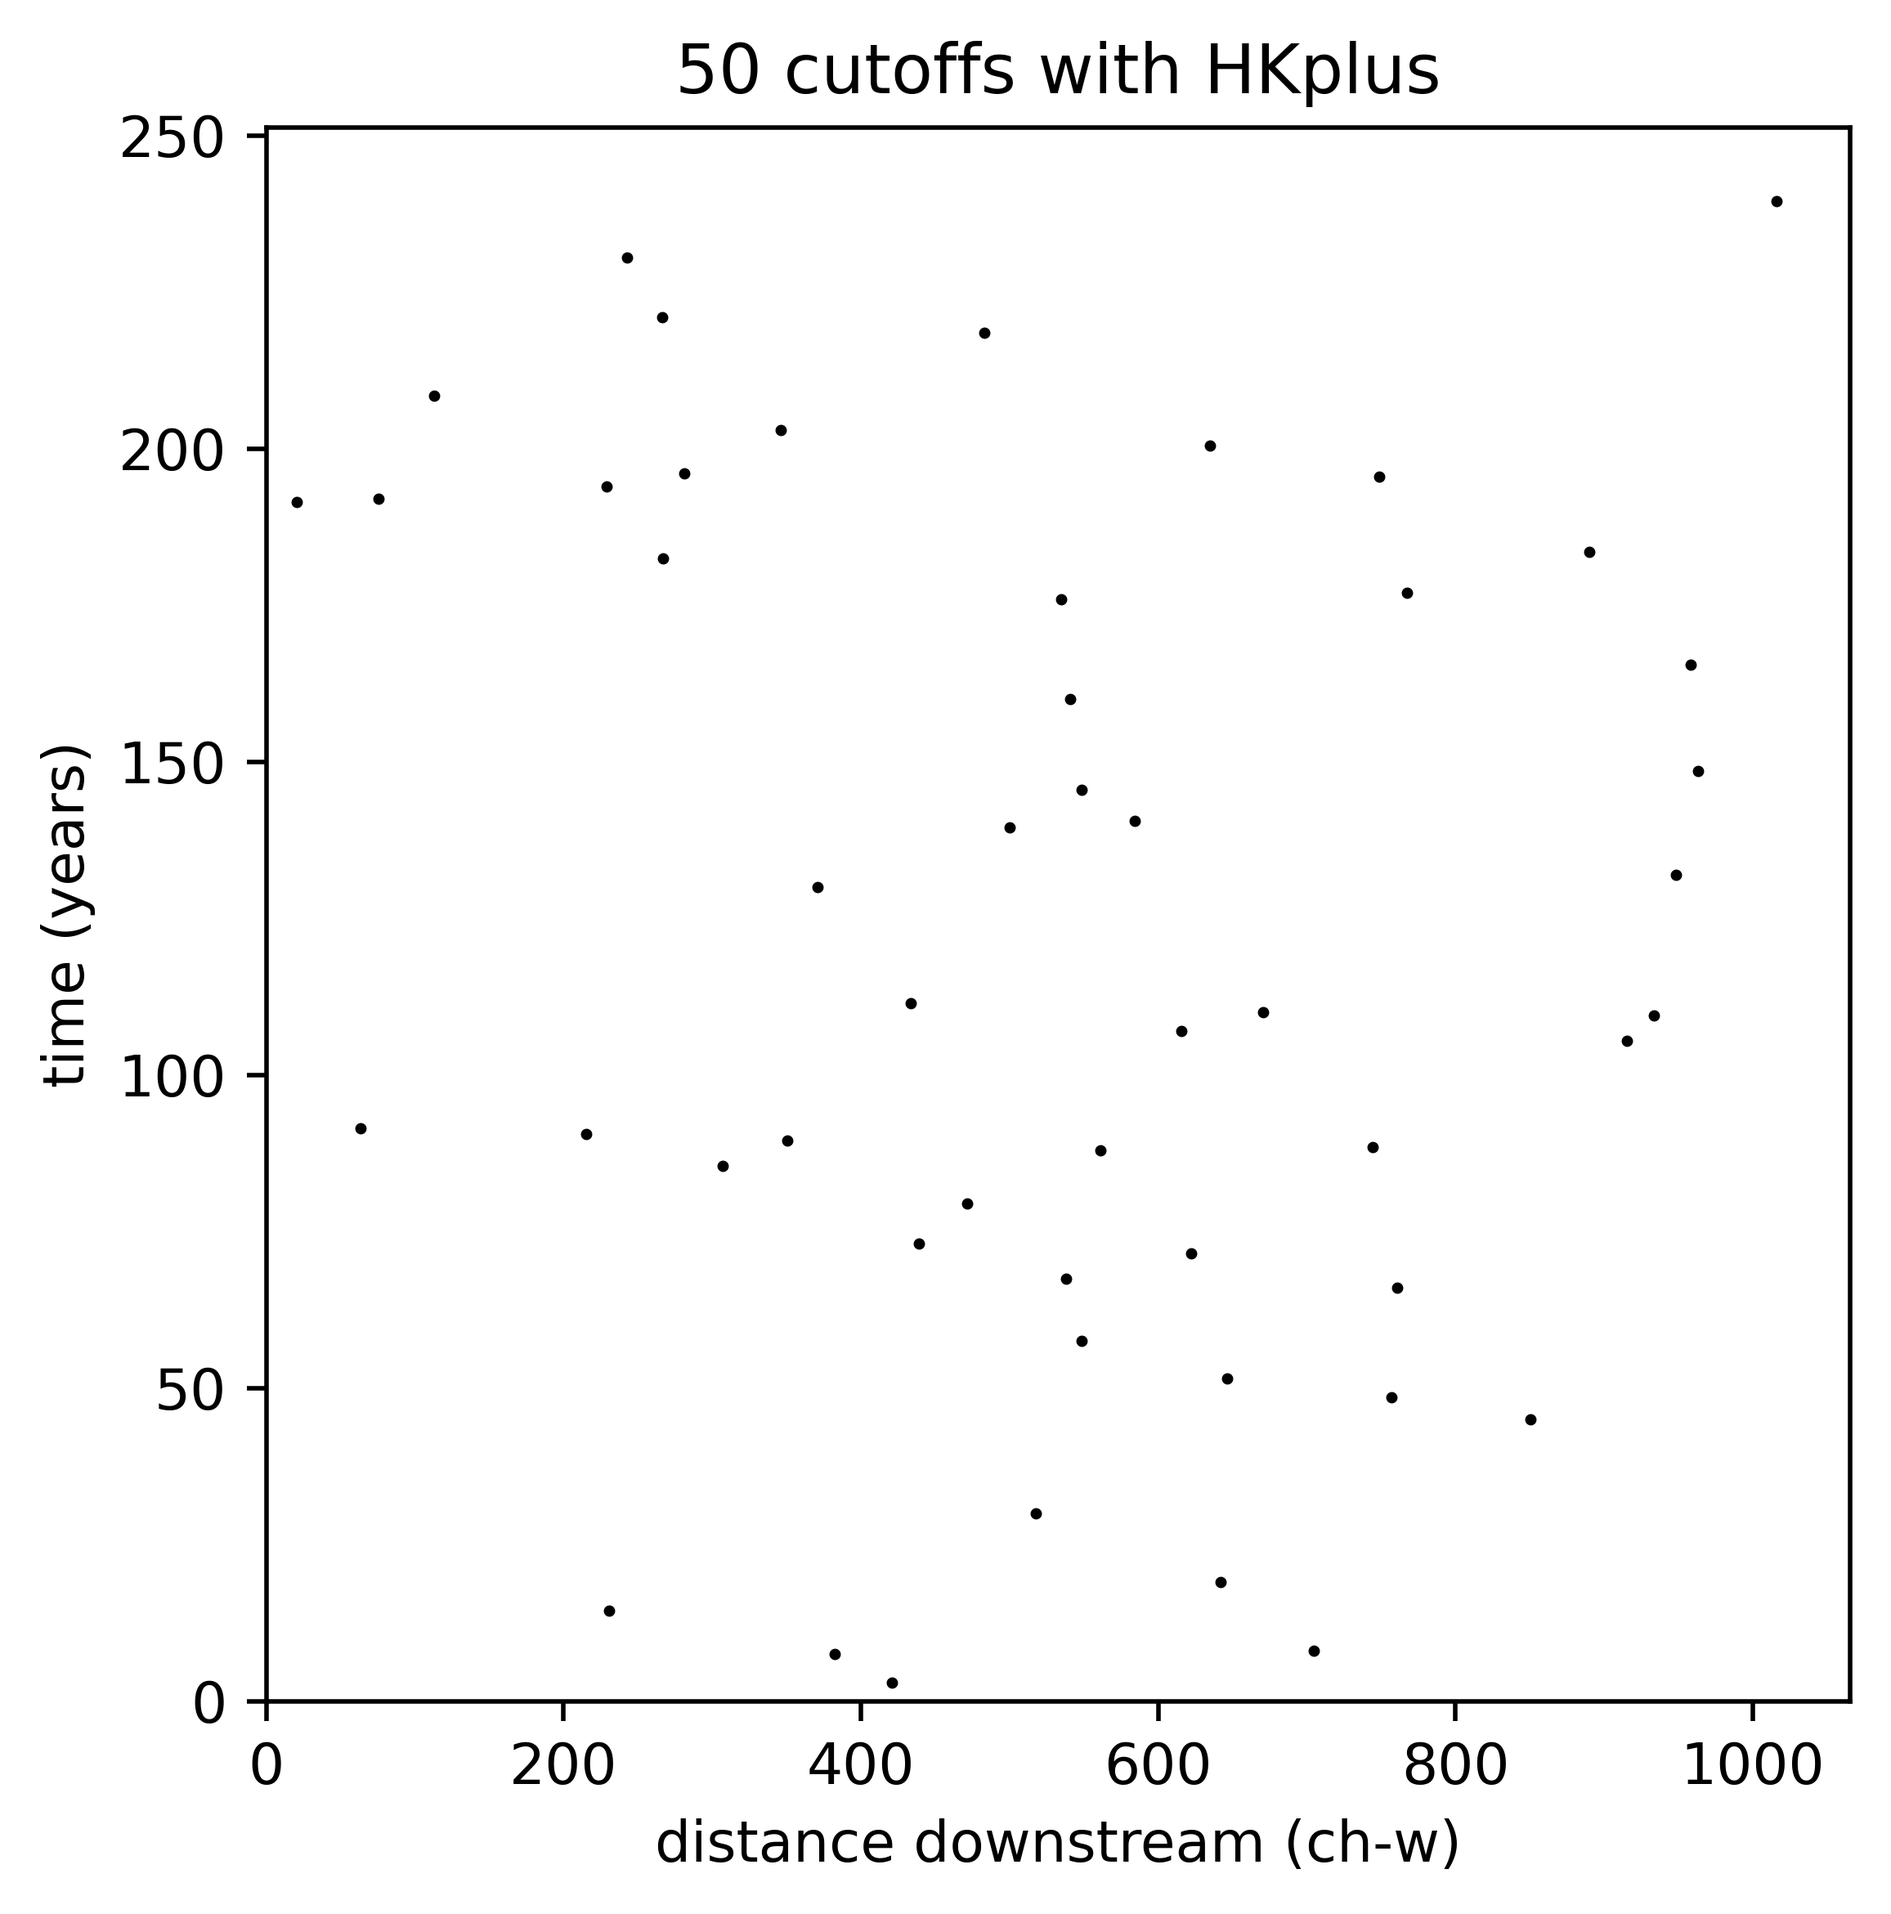
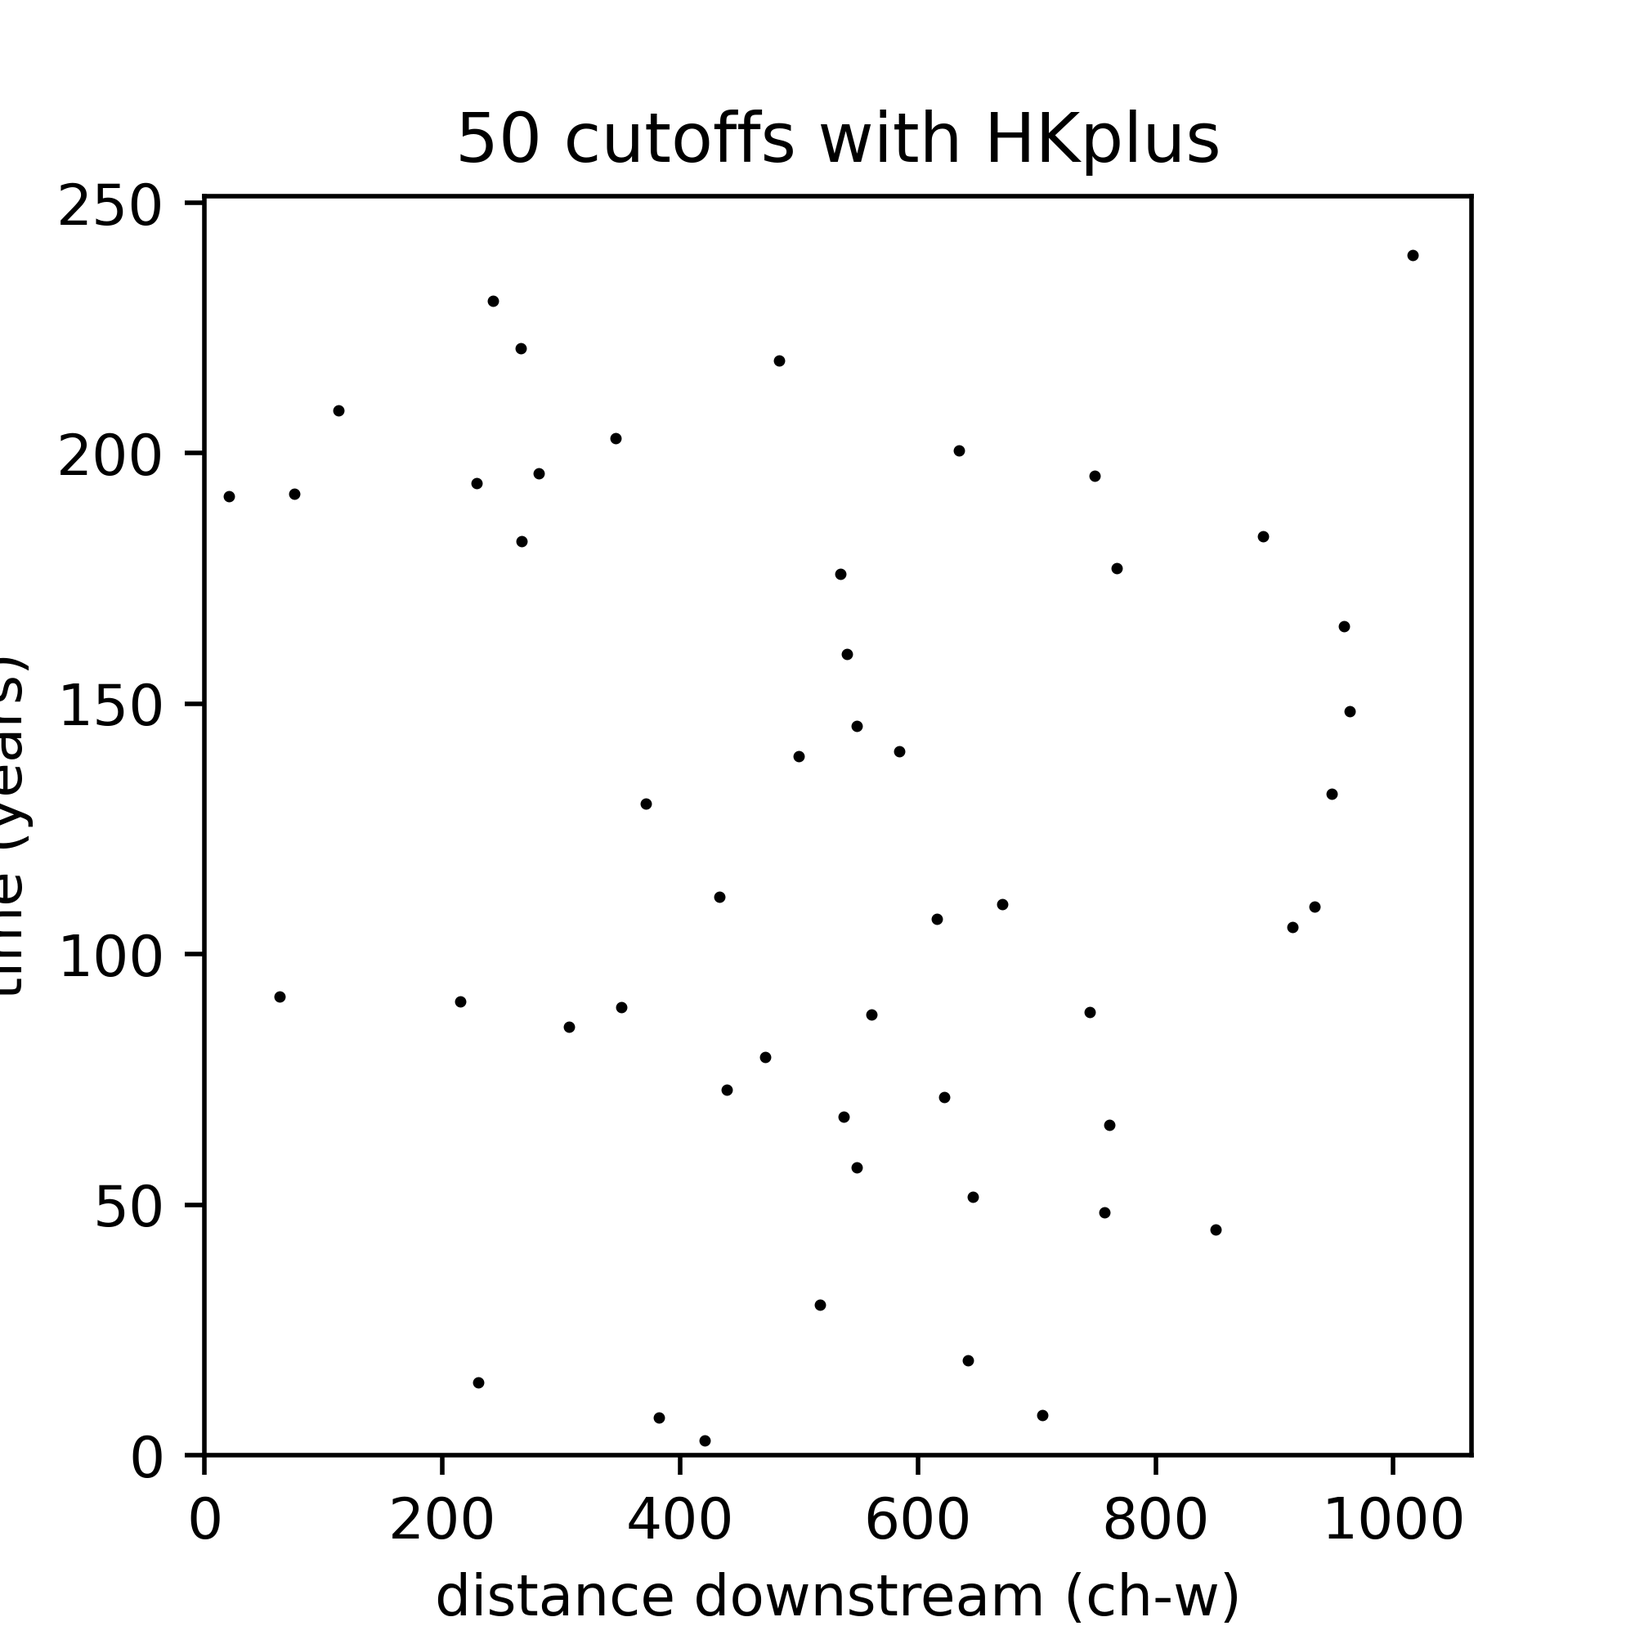
resize figs

diff --git a/SpaceTime/SpaceTime.py b/SpaceTime/SpaceTime.py
@@ -201,7 +201,7 @@ class RipleysKEstimator_spacetime:
         
     def plot_st(self, r_space, r_time, normalized):
         plt.rcParams.update({'font.size': 10})
-        fig,ax = plt.subplots(figsize = (7,6))
+        fig,ax = plt.subplots(figsize = (5,4))
         ax.set_ylabel('time window (years)')
         ax.set_ylim(bottom=0, top=30)
         ax.set_xlim(left=0, right=30)
@@ -215,7 +215,7 @@ class RipleysKEstimator_spacetime:
         #im = ax.imshow(np.ma.masked_values(normalized, 0),origin='lower',vmin = -2, vmax = 2, cmap = cmap)
         im = ax.pcolormesh(np.ma.masked_values(normalized, 0),vmin = -2, vmax = 2, cmap = cmap, edgecolors='k', linewidths=.5, shading='auto')
         #ax.grid(which='both', color='k', linewidth=.1)
-        plt.title("Significantly clustered (green) and regular (red) cutoff intensities", pad = 10)
+        plt.title("Significant cutoff K values:\n clustering (green) and regularity (red)", pad = 10)
         cbar = ax.figure.colorbar(im, ax=ax, ticks = [-2,-1,0,1,2])
         cbar.ax.set_ylabel("# additional cutoffs expected", va="bottom", rotation=-90)
         cbar.ax.set_yticklabels(['<-2', '-1', '0','1','>2']) 

diff --git a/SimulateCutoffDistribution.py b/SimulateCutoffDistribution.py
@@ -51,5 +51,5 @@ plt.close()
 # Save Cutoff Distributions for Clustering Tests #
 chb.cutoff_distributions(int(chb.cutoff_times[-1]), result_dir, mode)
 plt.title(str(cut_thresh)+" cutoffs with HKplus")
-plt.savefig(result_dir + mode+str(cut_thresh)+"_cutoffs_timevsspace.png", transparent=True, bbox_inches = 'tight', dpi = 500)
+plt.savefig(result_dir + mode+str(cut_thresh)+"_cutoffs_timevsspace.png", transparent=True, dpi = 500)
 plt.close()

diff --git a/HKplus/HKplus.py b/HKplus/HKplus.py
@@ -259,7 +259,7 @@ class ChannelBelt:
         
         newcuts = cuts.to_csv(filepath+mode+str(len(cuts['time']))+"_cutoffs_distribution.csv", index_label = "Cutoff")
         
-        fig, ax = plt.subplots(figsize = (5,5))
+        fig, ax = plt.subplots(figsize = (4,4))
     
         sc = ax.scatter(cuts['downstream_distance']/self.channels[-1].W,cuts['time'], c = 'black', s = 1, edgecolor = 'black')
         ncuts = len(cuts['time'])
